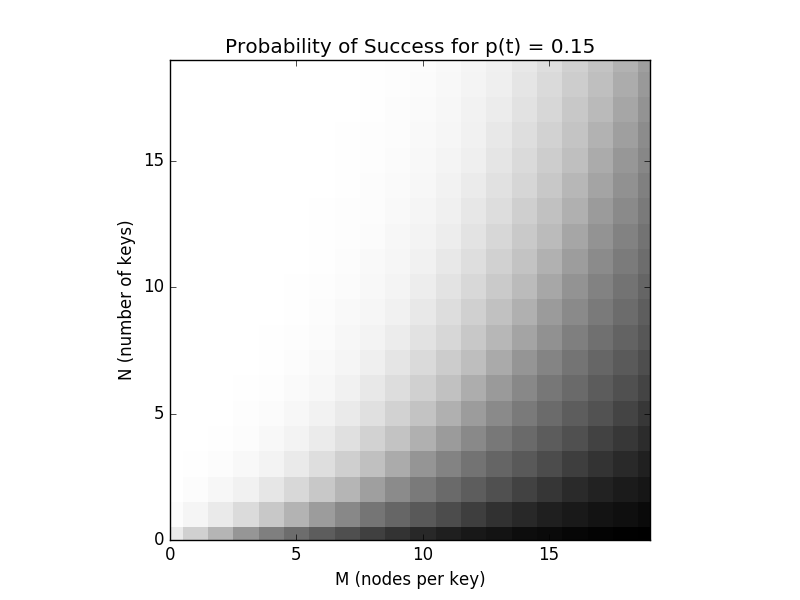
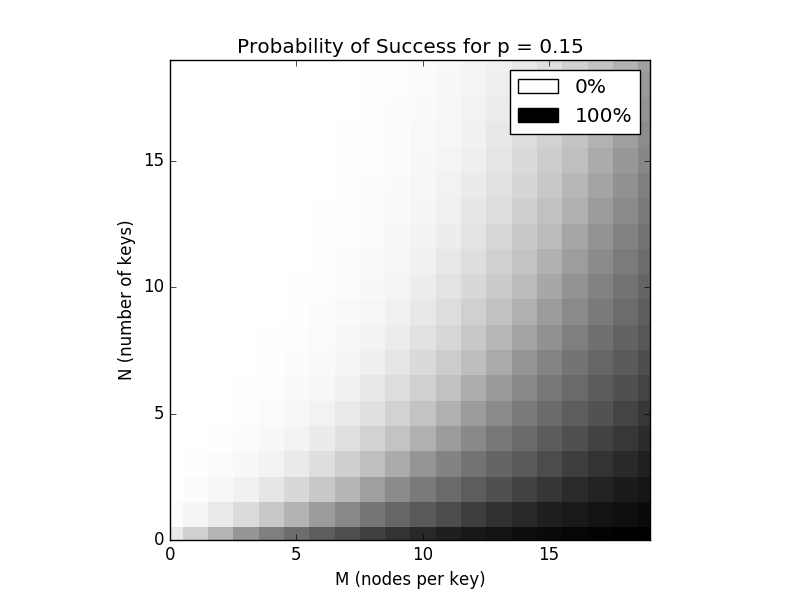
adds legend to charts

Changed region(s): [[0.2812, 0.06, 0.8125, 0.24]]

diff --git a/chart.py b/chart.py
@@ -1,5 +1,6 @@
 import matplotlib.pyplot as plt
 import numpy as np
+from matplotlib.patches import Rectangle
 
 def prob_of_success(N,M,p):
 	success = 1
@@ -12,12 +13,17 @@ def prob_of_success(N,M,p):
 
 
 dimensions = 20
-prob = 0.15
+prob = 0.5
 heatmap = []
 for n in range(dimensions):
 	heatmap.append([])
 	for m in range(dimensions):
 		heatmap[n].append(prob_of_success(n + 1, m + 1, prob))
+
+# create legend
+handles = [Rectangle((0, 0), 1, 1, color=c, ec="k") for c in ['white', 'black']]
+labels = ['0%', '100%']
+plt.legend(handles, labels)
 
 plt.xlim([0, dimensions-1])
 plt.ylim([0, dimensions-1])

diff --git a/README.md b/README.md
@@ -50,11 +50,8 @@ The probability `P` that this strategy will succeed conforms to the following fo
 ```
 `𝚷ᵢ` and `𝚷ᵣ` are the sequence products `i = 0`, `i < N` and `r = 0`, `r < M` respectively. `pᵢᵣ` refers to the probability that the `r`th node with key `i` will faithfully publish key `i` after the release date.
 
-![Figure 1. p = 15%](./p15.png)
 
-![Figure 2. p = 50%](./p50.png)
-
-Key: white = 0% | black = 100%
+![Figure 1. p = 15%](./p15.png) ![Figure 2. p = 50%](./p50.png)
 
 Derivation of `P`. Trivially,
 ```
